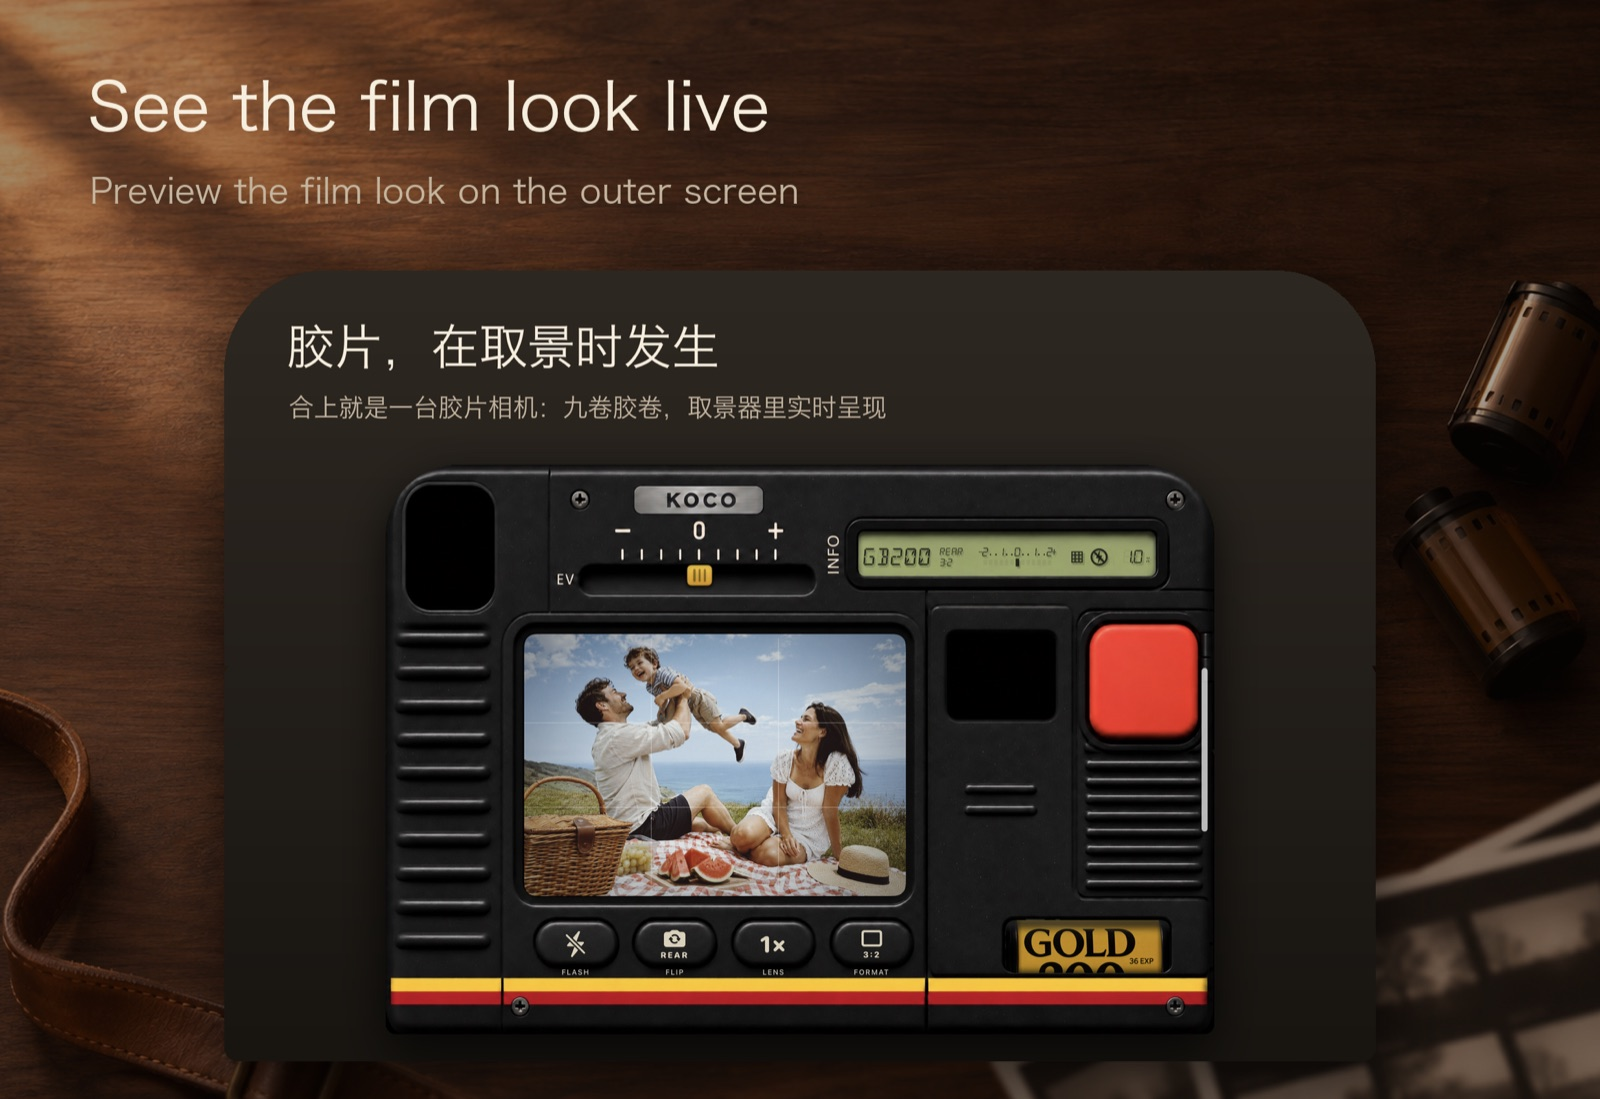
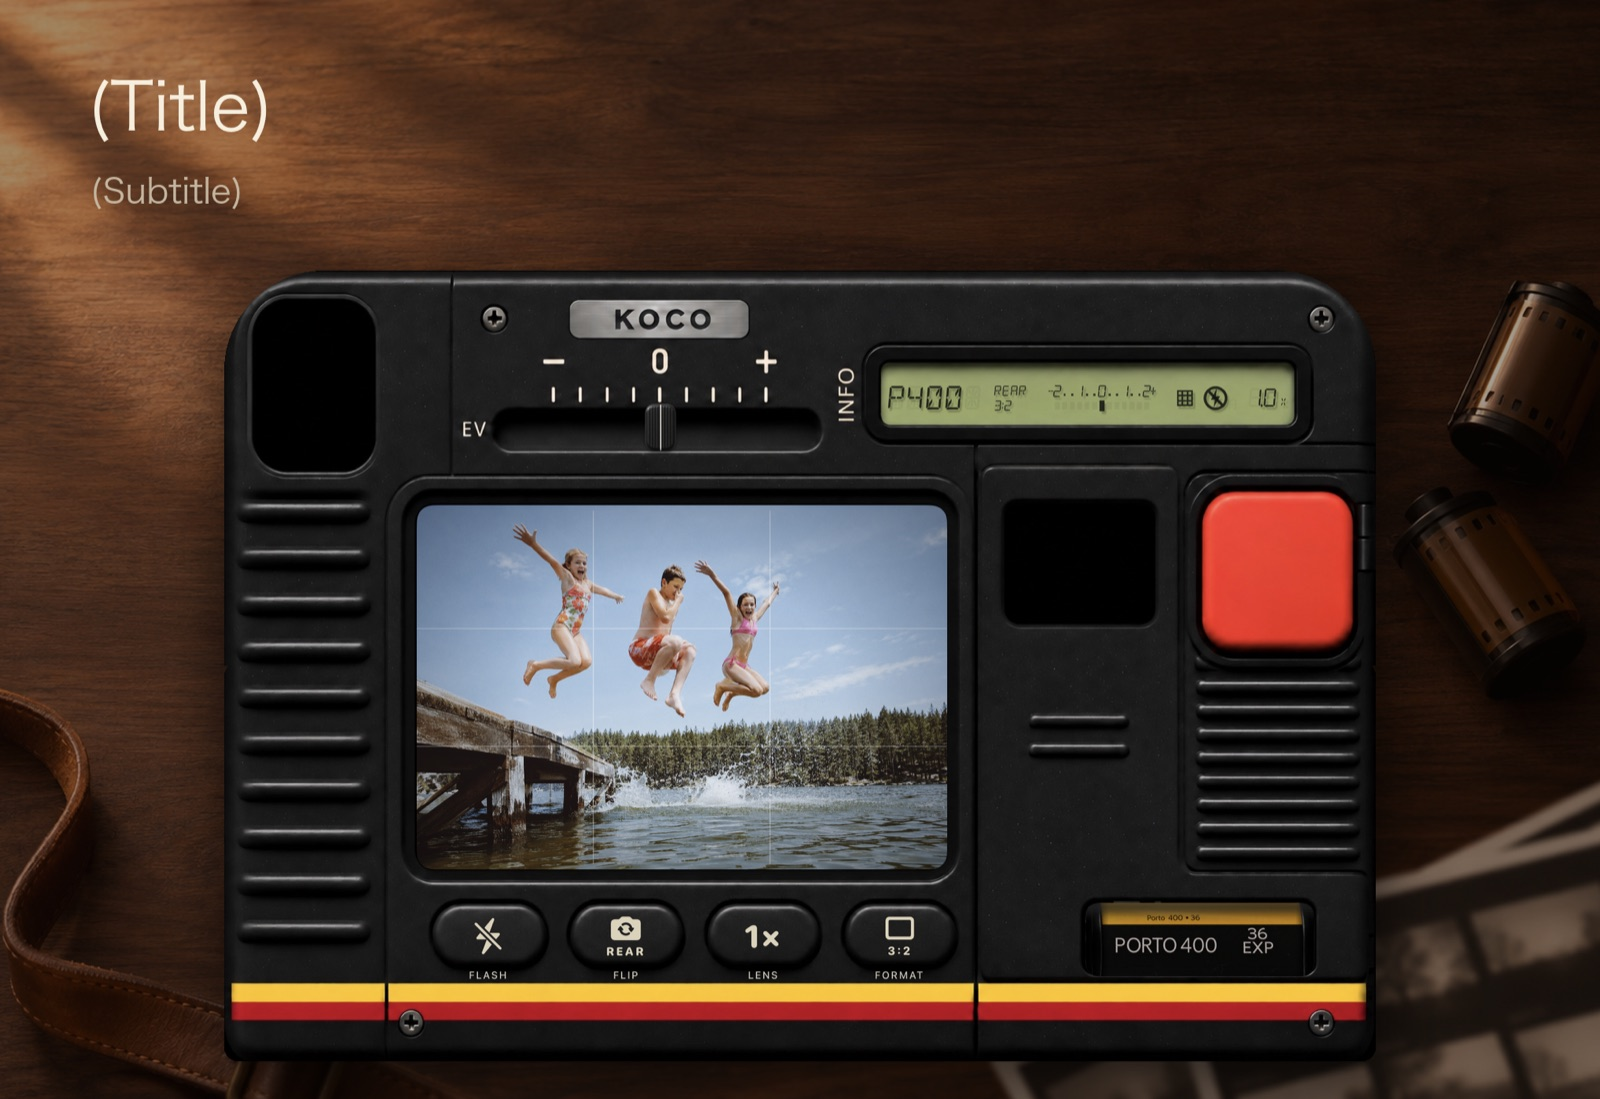
Debug -render outer: the real outer screen for App Store shots (fixes the doubled frame)

Changed region(s): [[0.125, 0.2475, 0.875, 0.9591], [0.0312, 0.0619, 0.5, 0.1237], [0.0625, 0.1547, 0.5, 0.1856]]

diff --git a/design/appstore/duo/index.html b/design/appstore/duo/index.html
@@ -12,15 +12,10 @@ figcaption{font-size:14px;color:var(--muted);margin-top:6px}
 .tbl{overflow-x:auto}table{border-collapse:collapse;min-width:620px;font-size:14px}td,th{border-bottom:1px solid var(--line);padding:6px 8px;text-align:left;vertical-align:top}
 </style>
 <main>
-<h1>Duo 截图样稿（第三版：标题重写）</h1>
-<p class="sub">按你的意见“不要文艺”，和 GPT 一起重写了 8 张标题：直接说这个功能怎么用、对你有什么用，像跟朋友说话。背景和版式没变，内屏截图换成最新界面（凹槽卡片、右边页签）。GPT 的讨论原文在 project/discuss/duo-copy-v3.md。</p>
-<figure><img src="v3_1_zh.jpg" alt="外屏中文"><figcaption>第 1 张 · 外屏（中文）</figcaption></figure>
-<figure><img src="v3_3_zh.jpg" alt="内屏中文"><figcaption>第 3 张 · 内屏（中文）</figcaption></figure>
-<figure><img src="v3_1_en.jpg" alt="Outer English"><figcaption>Shot 1 · English</figcaption></figure>
-<figure><img src="v3_3_en.jpg" alt="Inner English"><figcaption>Shot 3 · English</figcaption></figure>
-<h2 style="font-size:18px">8 张标题（新）</h2>
-<div class="tbl"><table>
-<tr><th>#</th><th>中文标题 / 副标题</th><th>English</th></tr>
-<tr><td>1</td><td>取景就能看到胶片效果<br>外屏实时显示，拍之前就知道成片的样子</td><td>See the film look live<br>Preview the film look on the outer screen</td></tr><tr><td>2</td><td>手机半折，低头就能拍<br>下半屏变取景器，带水平气泡和快门键</td><td>Fold halfway to shoot<br>Look down to frame, with a level and shutter key</td></tr><tr><td>3</td><td>展开选卷，合上就装好<br>在内屏挑一卷，把手机完全合上就装进相机</td><td>Pick a roll, then close it<br>Choose on the inner screen, close fully to load</td></tr><tr><td>4</td><td>合着手机也能换卷<br>在外屏打开胶卷仓，换另一卷</td><td>Swap rolls while folded<br>Open the film chamber on the outer screen</td></tr><tr><td>5</td><td>三卷免费，其他先试拍<br>其他每卷都能免费拍几张，再决定买不买</td><td>Three rolls free, try the rest<br>Every other roll has a few free shots</td></tr><tr><td>6</td><td>锁屏按一下就打开<br>锁屏时按相机控制键，直接打开 Koco</td><td>Open Koco while locked<br>Press Camera Control to open Koco</td></tr><tr><td>7</td><td>原图和效果，做成视频发<br>把原图和胶片效果放进一段短视频分享</td><td>Share a before & after video<br>Your original and film look in one short video</td></tr><tr><td>8</td><td>照片只存在你手机里<br>不用注册账号，照片也不会上传</td><td>Your photos stay on iPhone<br>No account needed and no photo uploads</td></tr>
-</table></div>
+<h1>Duo 截图样稿（标题留给你写）</h1>
+<p class="sub">第一张“两个框”是我的错：拿来当外屏原图的其实是第一版做好的成图（带自己的框和标题，胶卷名也是旧的）。已改成直接按 Duo 外屏实际尺寸渲染的真外屏，现在只有一个框、胶卷名是新的。标题位置先放了占位，你写好 8 条（中文，英文也可以你写或我来译），在决定页这一项的补充里贴给我，我就做全部 8 张中英文。</p>
+<figure><img src="v3_1_zh.jpg" alt="外屏"><figcaption>第 1 张 · 外屏（已修正）</figcaption></figure>
+<figure><img src="v3_3_zh.jpg" alt="内屏"><figcaption>第 3 张 · 内屏</figcaption></figure>
+<h2 style="font-size:18px">8 张各自要讲的功能</h2>
+<div class="tbl"><table><tr><th>#</th><th>这张画面</th><th>标题 / 副标题</th></tr><tr><td>1</td><td>外屏取景就是胶片效果（实时）</td><td>（你写）</td></tr><tr><td>2</td><td>半折手机：下半屏变腰平取景器，有水平气泡和快门键</td><td>（你写）</td></tr><tr><td>3</td><td>展开挑一卷，完全合上就装进相机</td><td>（你写）</td></tr><tr><td>4</td><td>合着手机也能打开外屏的胶卷仓换卷</td><td>（你写）</td></tr><tr><td>5</td><td>三卷免费，其他每卷可免费试拍几张</td><td>（你写）</td></tr><tr><td>6</td><td>锁屏按相机控制键直接打开</td><td>（你写）</td></tr><tr><td>7</td><td>原图和胶片效果做成短视频分享</td><td>（你写）</td></tr><tr><td>8</td><td>照片只存在手机里，不用账号、不上传</td><td>（你写）</td></tr></table></div>
 </main>

diff --git a/cameragr/App/CameraGRApp.swift b/cameragr/App/CameraGRApp.swift
@@ -120,8 +120,8 @@ private func debugComparisonVideo() async {
 #endif
 
 #if DEBUG
-/// `-render inner|finder`: draws that screen at the Duo's real size and
-/// resolution (inner 951×669 pt, a half-fold half 669×475 pt, @3x) in a window
+/// `-render inner|outer|finder`: draws that screen at the Duo's real size and
+/// resolution (inner 951×669 pt, outer 678×466 pt, a half-fold half 669×475 pt, @3x) in a window
 /// of its own, into Documents/render.png — for App Store screenshots and
 /// checks the simulator's one screen can't show.
 @MainActor
@@ -132,6 +132,12 @@ private func debugRender(_ model: CameraModel) async {
     let size: CGSize
     let view: AnyView
     switch what {
+    case "outer":
+        // The closed phone's outer screen: the camera body. It lays itself
+        // out for the phone held upright here, so the window is upright and
+        // the picture comes out on its side (turn it a quarter after).
+        size = CGSize(width: 466, height: 678)
+        view = AnyView(CameraScreen().environmentObject(model))
     case "finder":
         size = CGSize(width: 669, height: 475)
         view = AnyView(WaistFinder().environmentObject(model))
